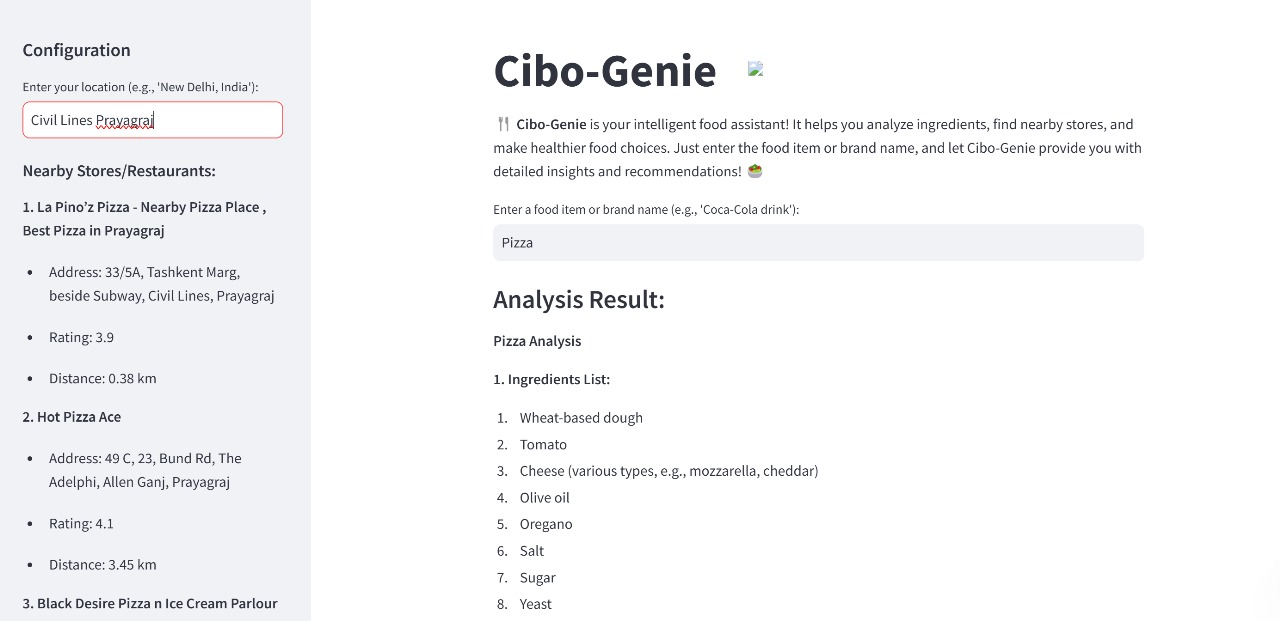
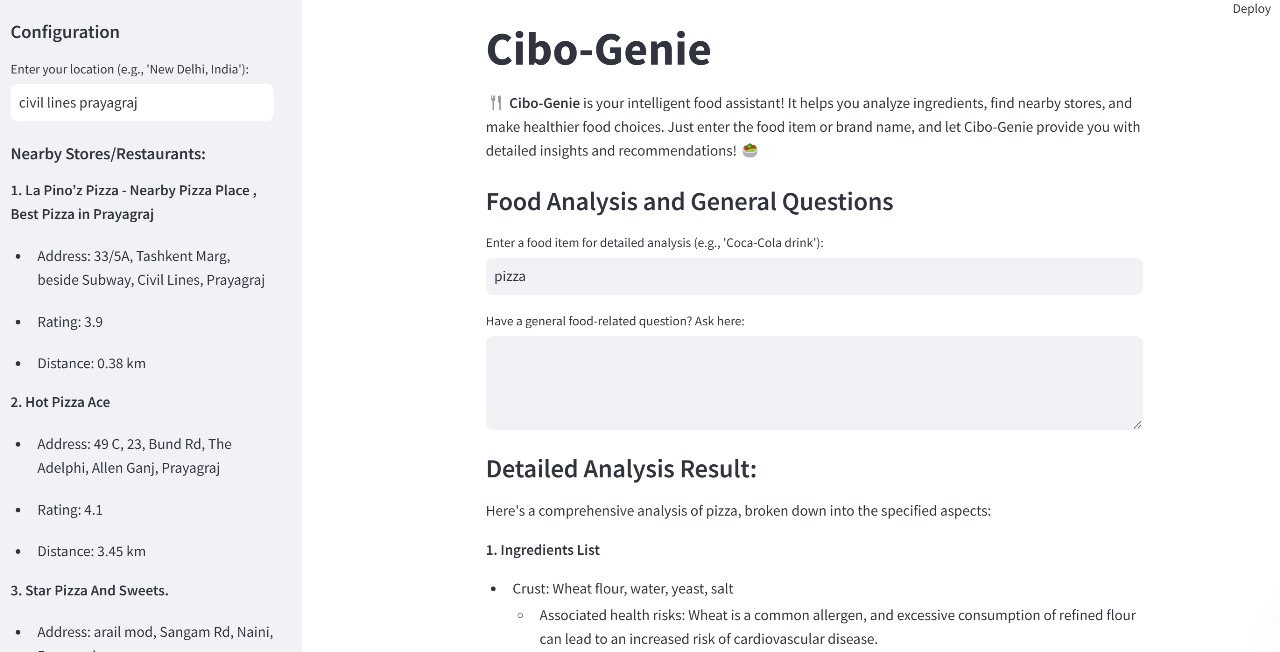
prompt changes

diff --git a/app.py b/app.py
@@ -99,7 +99,7 @@ def fetch_wikipedia_summary(topic):
         logging.error(f"Wikipedia API Error: {str(e)}")
         return "Error fetching data from Wikipedia."
 
-# Uses SERPAPI
+# Fetch Google Results
 def fetch_google_results(query):
     try:
         url = f"https://serpapi.com/search.json?q={query}&api_key={SERP_API_KEY}"
@@ -177,10 +177,7 @@ def display_map(places, user_coordinates):
             ).add_to(m)
     st_folium(m, width=700, height=500)
 
-
 # Build Prompt Template for Groq LLM
-from langchain.prompts import ChatPromptTemplate
-
 def build_prompt_template():
     """Build prompt template for Groq LLM."""
     prompt = ChatPromptTemplate.from_template(
@@ -218,15 +215,13 @@ def build_prompt_template():
     )
     return prompt
 
-
 # Streamlit Interface
 st.markdown("""
     <div style="display: flex; align-items: center;">
         <h1 style="font-size: 50px; margin-right: 10px;">Cibo-Genie</h1>
-        <img src="images/logo.png" width="100" style="margin-right: 10px;">
+        
     </div>
 """, unsafe_allow_html=True)
-
 
 # Add a short description below the title
 st.markdown("""
@@ -234,26 +229,33 @@ st.markdown("""
     and make healthier food choices. Just enter the food item or brand name, and let Cibo-Genie provide you 
     with detailed insights and recommendations! 🥗
 """)
+
 # Sidebar: Location Input
 st.sidebar.header("Configuration")
 location_input = st.sidebar.text_input("Enter your location (e.g., 'New Delhi, India'):", key="location_input")
 
-# Main Content: Food Item Input and Analysis
-food_input = st.text_input("Enter a food item or brand name (e.g., 'Coca-Cola drink'):", key="food_input")
+# Main Content
+st.subheader("Food Analysis and General Questions")
 
-# If food item is provided
+# Small Input Field: Food Analysis
+food_input = st.text_input("Enter a food item for detailed analysis (e.g., 'Coca-Cola drink'):", key="food_input")
+
+# Larger Input Field: General Questions
+# Larger Input Field: General Questions
+general_query = st.text_area("Have a general food-related question? Ask here:", key="general_query")
+
+# If user provides a food item for analysis
 if food_input:
     try:
-        start = time.process_time()
+        start_time = time.process_time()
 
-        # Fetch relevant context from Wikipedia and Google using the RAG pipeline
+        # Fetch relevant context from Wikipedia and Google using RAG
         wiki_summary = fetch_wikipedia_summary(food_input)
-        logging.debug(f"Wikipedia Summary: {wiki_summary}")
         google_summary = fetch_google_results(food_input)
-        logging.debug(f"Google Search Summary: {google_summary}")
 
         # Combine context from Wikipedia and Google
         content = hybrid_context_aggregation(wiki_summary, google_summary)
+
         # Extract PDF Content
         pdf_paths = ["food_guide1.pdf", "food_guide2.pdf"]
         pdf_text = extract_text_from_pdfs(pdf_paths)
@@ -264,53 +266,94 @@ if food_input:
         pdf_search_results = search_pdf(food_input, pdf_index, pdf_chunks)
         content += f" PDF Search Results: {', '.join(pdf_search_results)}"
 
+        # Summarize content to fit within token limit
         content = safe_summarize(content, token_limit=3000)
 
-        # Build the prompt with the combined context
+        # Build prompt and query the LLM
         prompt = build_prompt_template()
         context = {"context": content, "input": food_input}
-
-        # Format and pass context properly
         formatted_prompt = prompt.format_prompt(**context).to_string()
 
-        # Query Groq
         response = llm.invoke(formatted_prompt)
-        logging.debug(f"Groq Response: {response}")
-        # Extract only the content part of the response
-        content = getattr(response, "content", "No content available.")
+        analysis_result = getattr(response, "content", "No content available.")
 
-        # Display the food analysis result
-        st.subheader("Analysis Result:")
-        st.write(content)
+        # Display the analysis result
+        st.subheader("Detailed Analysis Result:")
+        st.write(analysis_result)
 
-        end = time.process_time()
-        elapsed_time = end - start
+        elapsed_time = time.process_time() - start_time
         logging.info(f"Processing time: {elapsed_time:.2f} seconds.")
 
     except Exception as e:
-        logging.error(f"Error during processing: {str(e)}")
-        st.error("An error occurred while processing the request.")
-else:
-    st.write("Please enter a food item to analyze.")
+        logging.error(f"Error during food analysis: {str(e)}")
+        st.error("An error occurred while analyzing the food item.")
 
-# Additional Features: Nearby Places and Map
-# Additional Features: Nearby Places and Map
+# If user provides a general query
+if general_query:
+    try:
+        start_time = time.process_time()
+
+        # Fetch context from Wikipedia and Google
+        wiki_summary = fetch_wikipedia_summary(general_query)
+        google_summary = fetch_google_results(general_query)
+
+        # Combine context and summarize if needed
+        content = hybrid_context_aggregation(wiki_summary, google_summary)
+        content = safe_summarize(content, token_limit=2000)
+
+        # Use the LLM to answer the general question
+        general_prompt = ChatPromptTemplate.from_template(
+            """
+            Analyze the following query in a concise and comprehensive manner. Provide actionable insights, 
+            useful examples, and references when applicable.
+            
+            Context: {context}
+            User Query: {query}
+            
+            Please respond with structured, user-friendly information.
+            """
+        )
+        context = {"context": content, "query": general_query}
+        formatted_prompt = general_prompt.format_prompt(**context).to_string()
+
+        response = llm.invoke(formatted_prompt)
+        general_response = getattr(response, "content", "No content available.")
+
+        # Display the response
+        st.subheader("Response to Your Question:")
+        st.write(general_response)
+
+        elapsed_time = time.process_time() - start_time
+        logging.info(f"Processing time: {elapsed_time:.2f} seconds.")
+
+    except Exception as e:
+        logging.error(f"Error during general query processing: {str(e)}")
+        st.error("An error occurred while processing your query.")
+
+# Sidebar: Location-Based Suggestions
 if location_input:
-    geolocator = Nominatim(user_agent="ingredient-analysis")
-    user_location = geolocator.geocode(location_input)
-    if user_location:
-        user_coordinates = (user_location.latitude, user_location.longitude)
-        # Fetch nearby places
-        nearby_places = fetch_nearby_places(food_input, user_coordinates)
-        if nearby_places:
-            st.sidebar.subheader("Nearby Stores/Restaurants:")
-            for i, place in enumerate(nearby_places, 1):
-                st.sidebar.write(f"**{i}. {place['name']}**")
-                st.sidebar.write(f"   - Address: {place['address']}")
-                st.sidebar.write(f"   - Rating: {place['rating']}")
-                st.sidebar.write(f"   - Distance: {place['distance']:.2f} km")
-            display_map(nearby_places, user_coordinates)
+    try:
+        geolocator = Nominatim(user_agent="ingredient-analysis")
+        user_location = geolocator.geocode(location_input)
+
+        if user_location:
+            user_coordinates = (user_location.latitude, user_location.longitude)
+            # Fetch nearby places
+            nearby_places = fetch_nearby_places(food_input, user_coordinates) if food_input else []
+
+            if nearby_places:
+                st.sidebar.subheader("Nearby Stores/Restaurants:")
+                for i, place in enumerate(nearby_places, 1):
+                    st.sidebar.write(f"**{i}. {place['name']}**")
+                    st.sidebar.write(f"   - Address: {place['address']}")
+                    st.sidebar.write(f"   - Rating: {place['rating']}")
+                    st.sidebar.write(f"   - Distance: {place['distance']:.2f} km")
+                display_map(nearby_places, user_coordinates)
+            else:
+                st.sidebar.warning("No nearby stores/restaurants found.")
         else:
-            st.sidebar.warning("No nearby stores/restaurants found.")
-    else:
-        st.sidebar.warning("Location not found. Please check your input.")
+            st.sidebar.warning("Location not found. Please check your input.")
+    except Exception as e:
+        logging.error(f"Error during location-based suggestions: {str(e)}")
+        st.sidebar.error("An error occurred while fetching location-based suggestions.")
+
